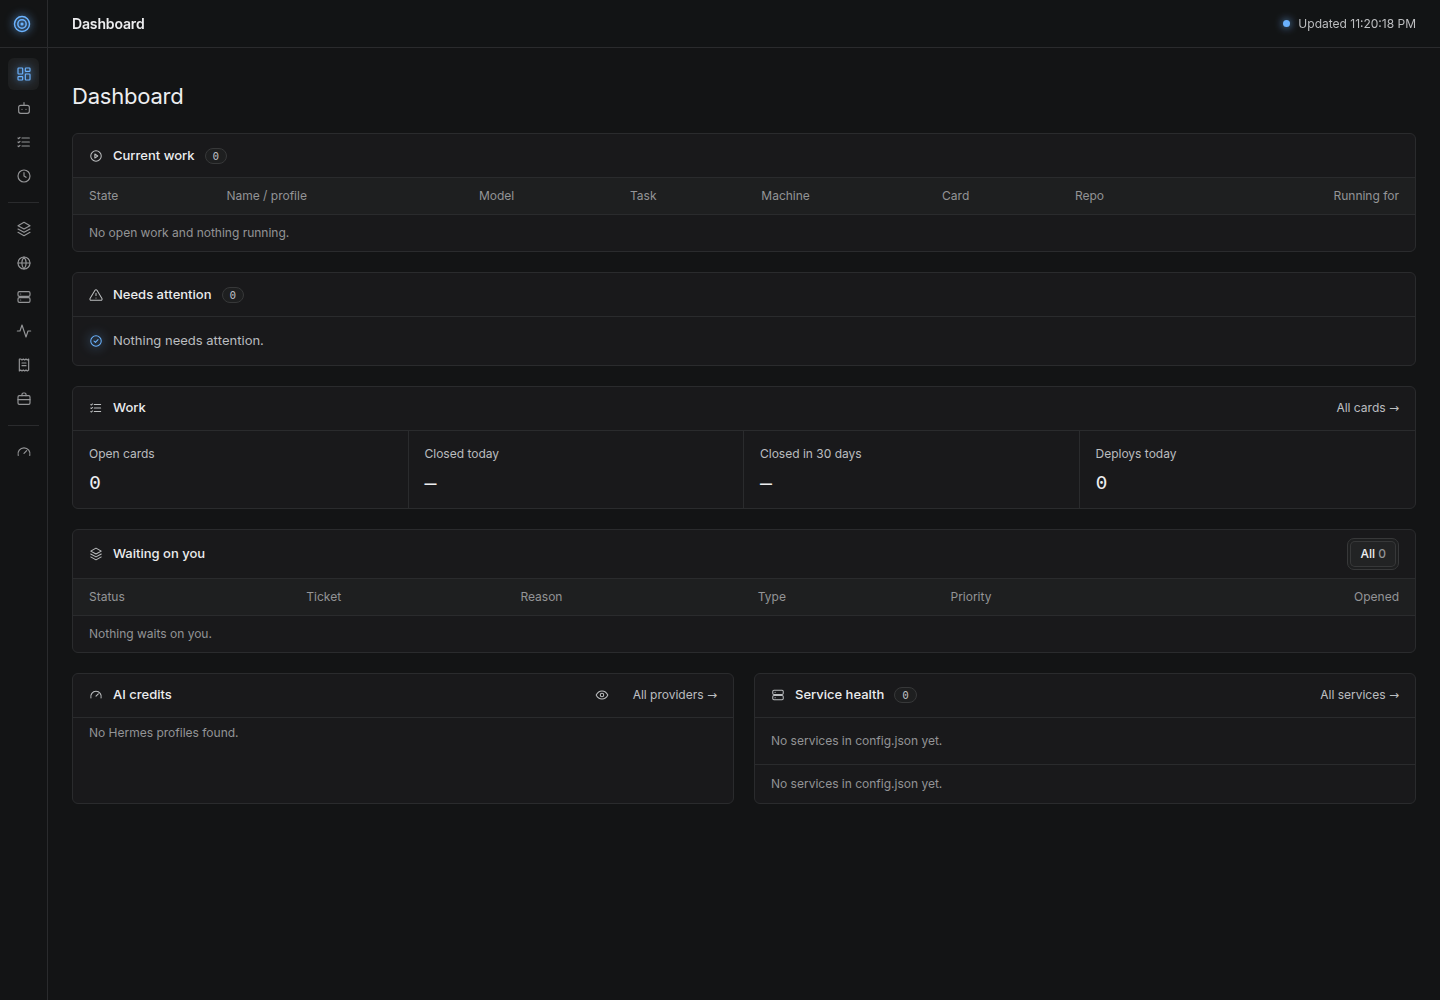
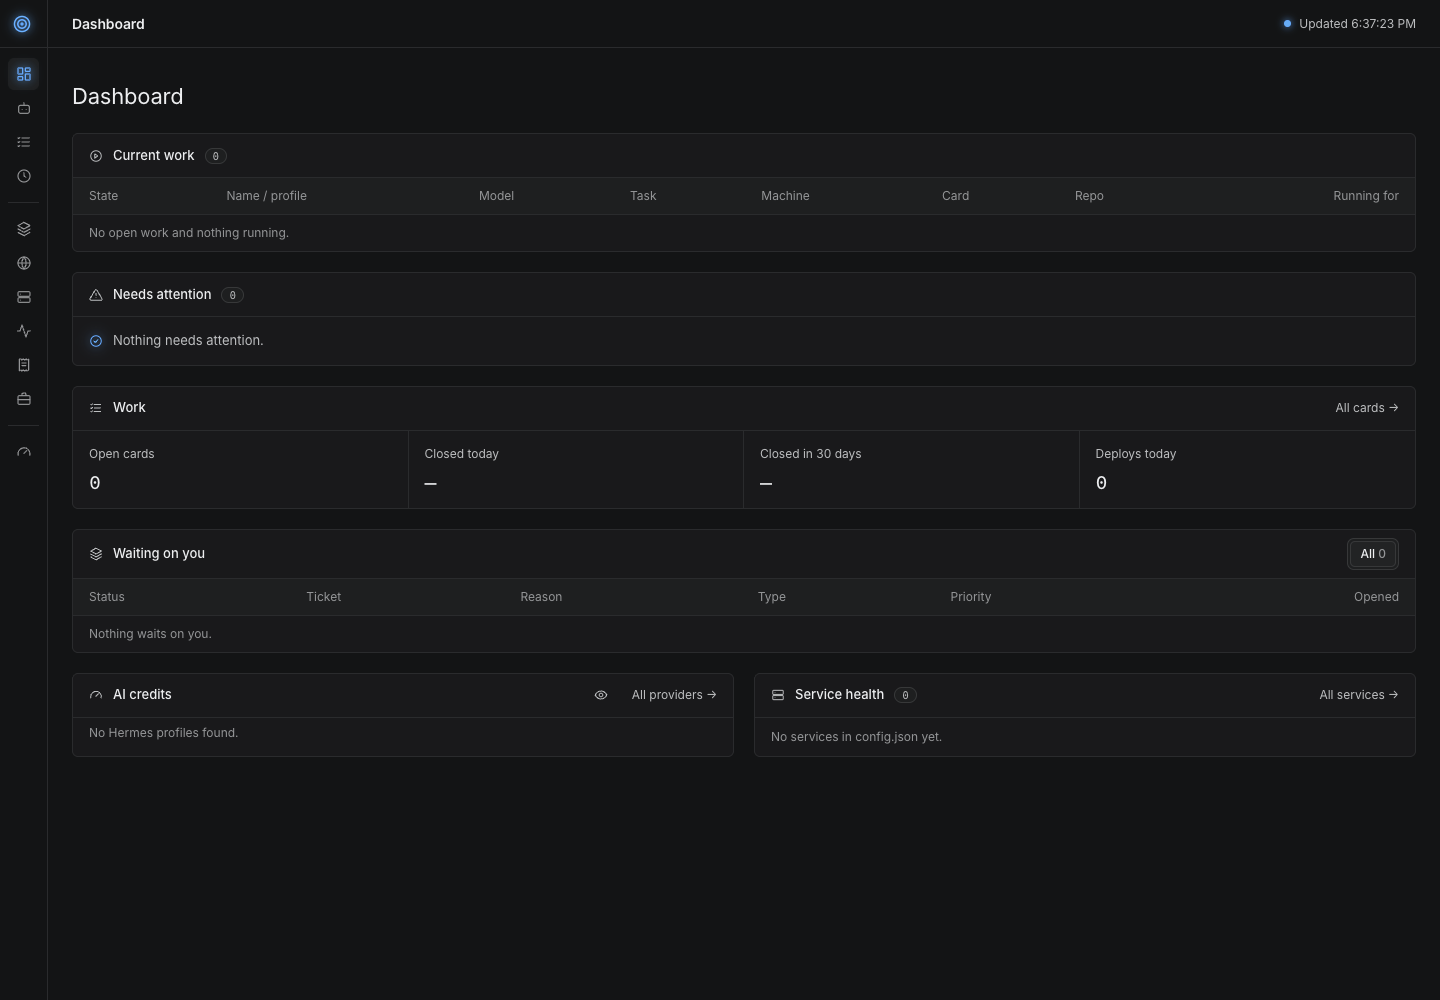
docs(55): README screenshot taken again from a clean install, with the empty state said once

diff --git a/docs/55/clean-install.md b/docs/55/clean-install.md
@@ -145,3 +145,16 @@ $ ls -a /root
 `node_modules` and `.next` inside the checkout, bun's own `~/.bun` and the `PATH` line in `.bashrc` its installer
 writes, and nothing else: no settings file, no `.env`, nothing outside the user's home, and nothing at all on the
 machines Collector reads.
+
+## The screenshot, taken again after review (fc2ec81)
+
+The review of b3052d7 found the screenshot showing "No services in config.json yet." twice in Service health: once
+in the panel's summary line and once in its empty list. The summary now stays empty when there are no services
+(`tests/service-health.test.ts`), and `docs/main-page.png` was taken again from a fresh install of `fc2ec81`, run the
+same way: a new `debian:stable-slim` container with `git`, `python3`, `curl`, `unzip` and `ca-certificates`, no `ps`,
+and `cat /src/install.sh | sh` cloning from a bundle of `agent/55`. The installer printed the same lines as above
+(`Downloading Collector into /root/collector` through `Collector is running at http://127.0.0.1:4000`), `/` answered
+200, `/api/services` answered `[]`, and the machine read came back with `"error": null` and no jobs. Because the
+installer binds `127.0.0.1` inside the container, the page was served again with `next start -H 0.0.0.0` for the
+host's headless Chrome (`--headless=new`, CDP, 1440×1000). The page's own text had the message once, Needs attention
+read "Nothing needs attention.", and the container was removed afterwards.
